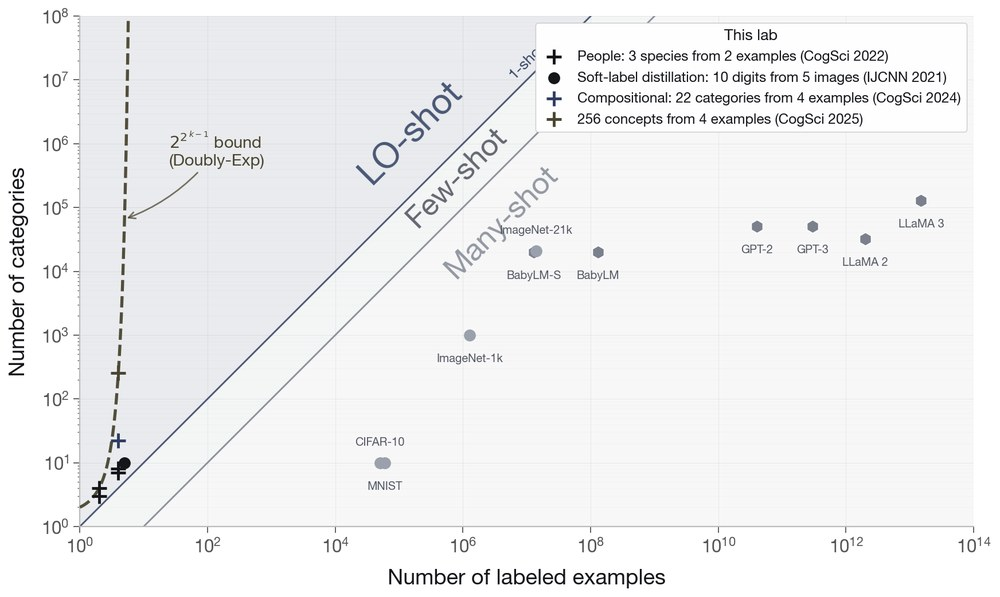
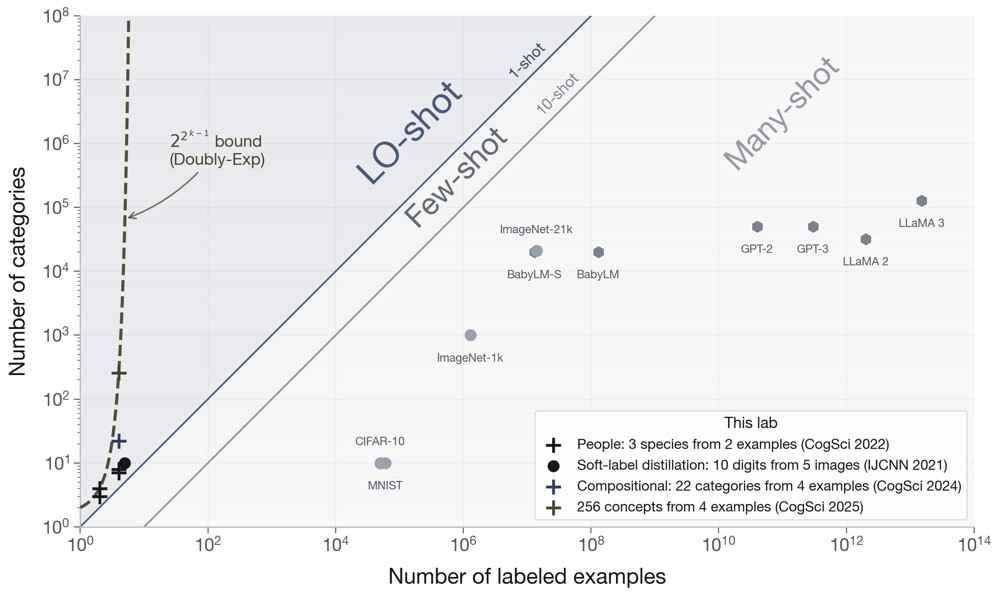
Few-shot landscape figure: legend moved off the labels; live research page no longer shows unpublished ImageNet points

diff --git a/_portfolio/02-data-efficient-learning.md b/_portfolio/02-data-efficient-learning.md
@@ -7,7 +7,7 @@ header:
 ---
 
 <figure class="thrust-figure">
-  <img src="/images/research/fslspace_gadi_square.jpg" alt="Two-axis log-log plot of number of categories versus number of training examples; LO-shot, few-shot, and many-shot regimes shaded; lab contributions plotted in the upper-left wedge; MNIST, CIFAR, ImageNet, BabyLM, GPT-2/3, LLaMA 2/3 plotted for scale." loading="lazy" decoding="async" />
+  <img src="/images/research/fslspace_web.jpg" alt="Two-axis log-log plot of number of categories versus number of training examples; LO-shot, few-shot, and many-shot regimes shaded; lab contributions plotted in the upper-left wedge; MNIST, CIFAR, ImageNet, BabyLM, GPT-2/3, LLaMA 2/3 plotted for scale." loading="lazy" decoding="async" />
   <figcaption>The few-shot landscape. We work in the upper-left wedge, where a learner extracts more categories from a dataset than there are examples in it.</figcaption>
 </figure>
 
